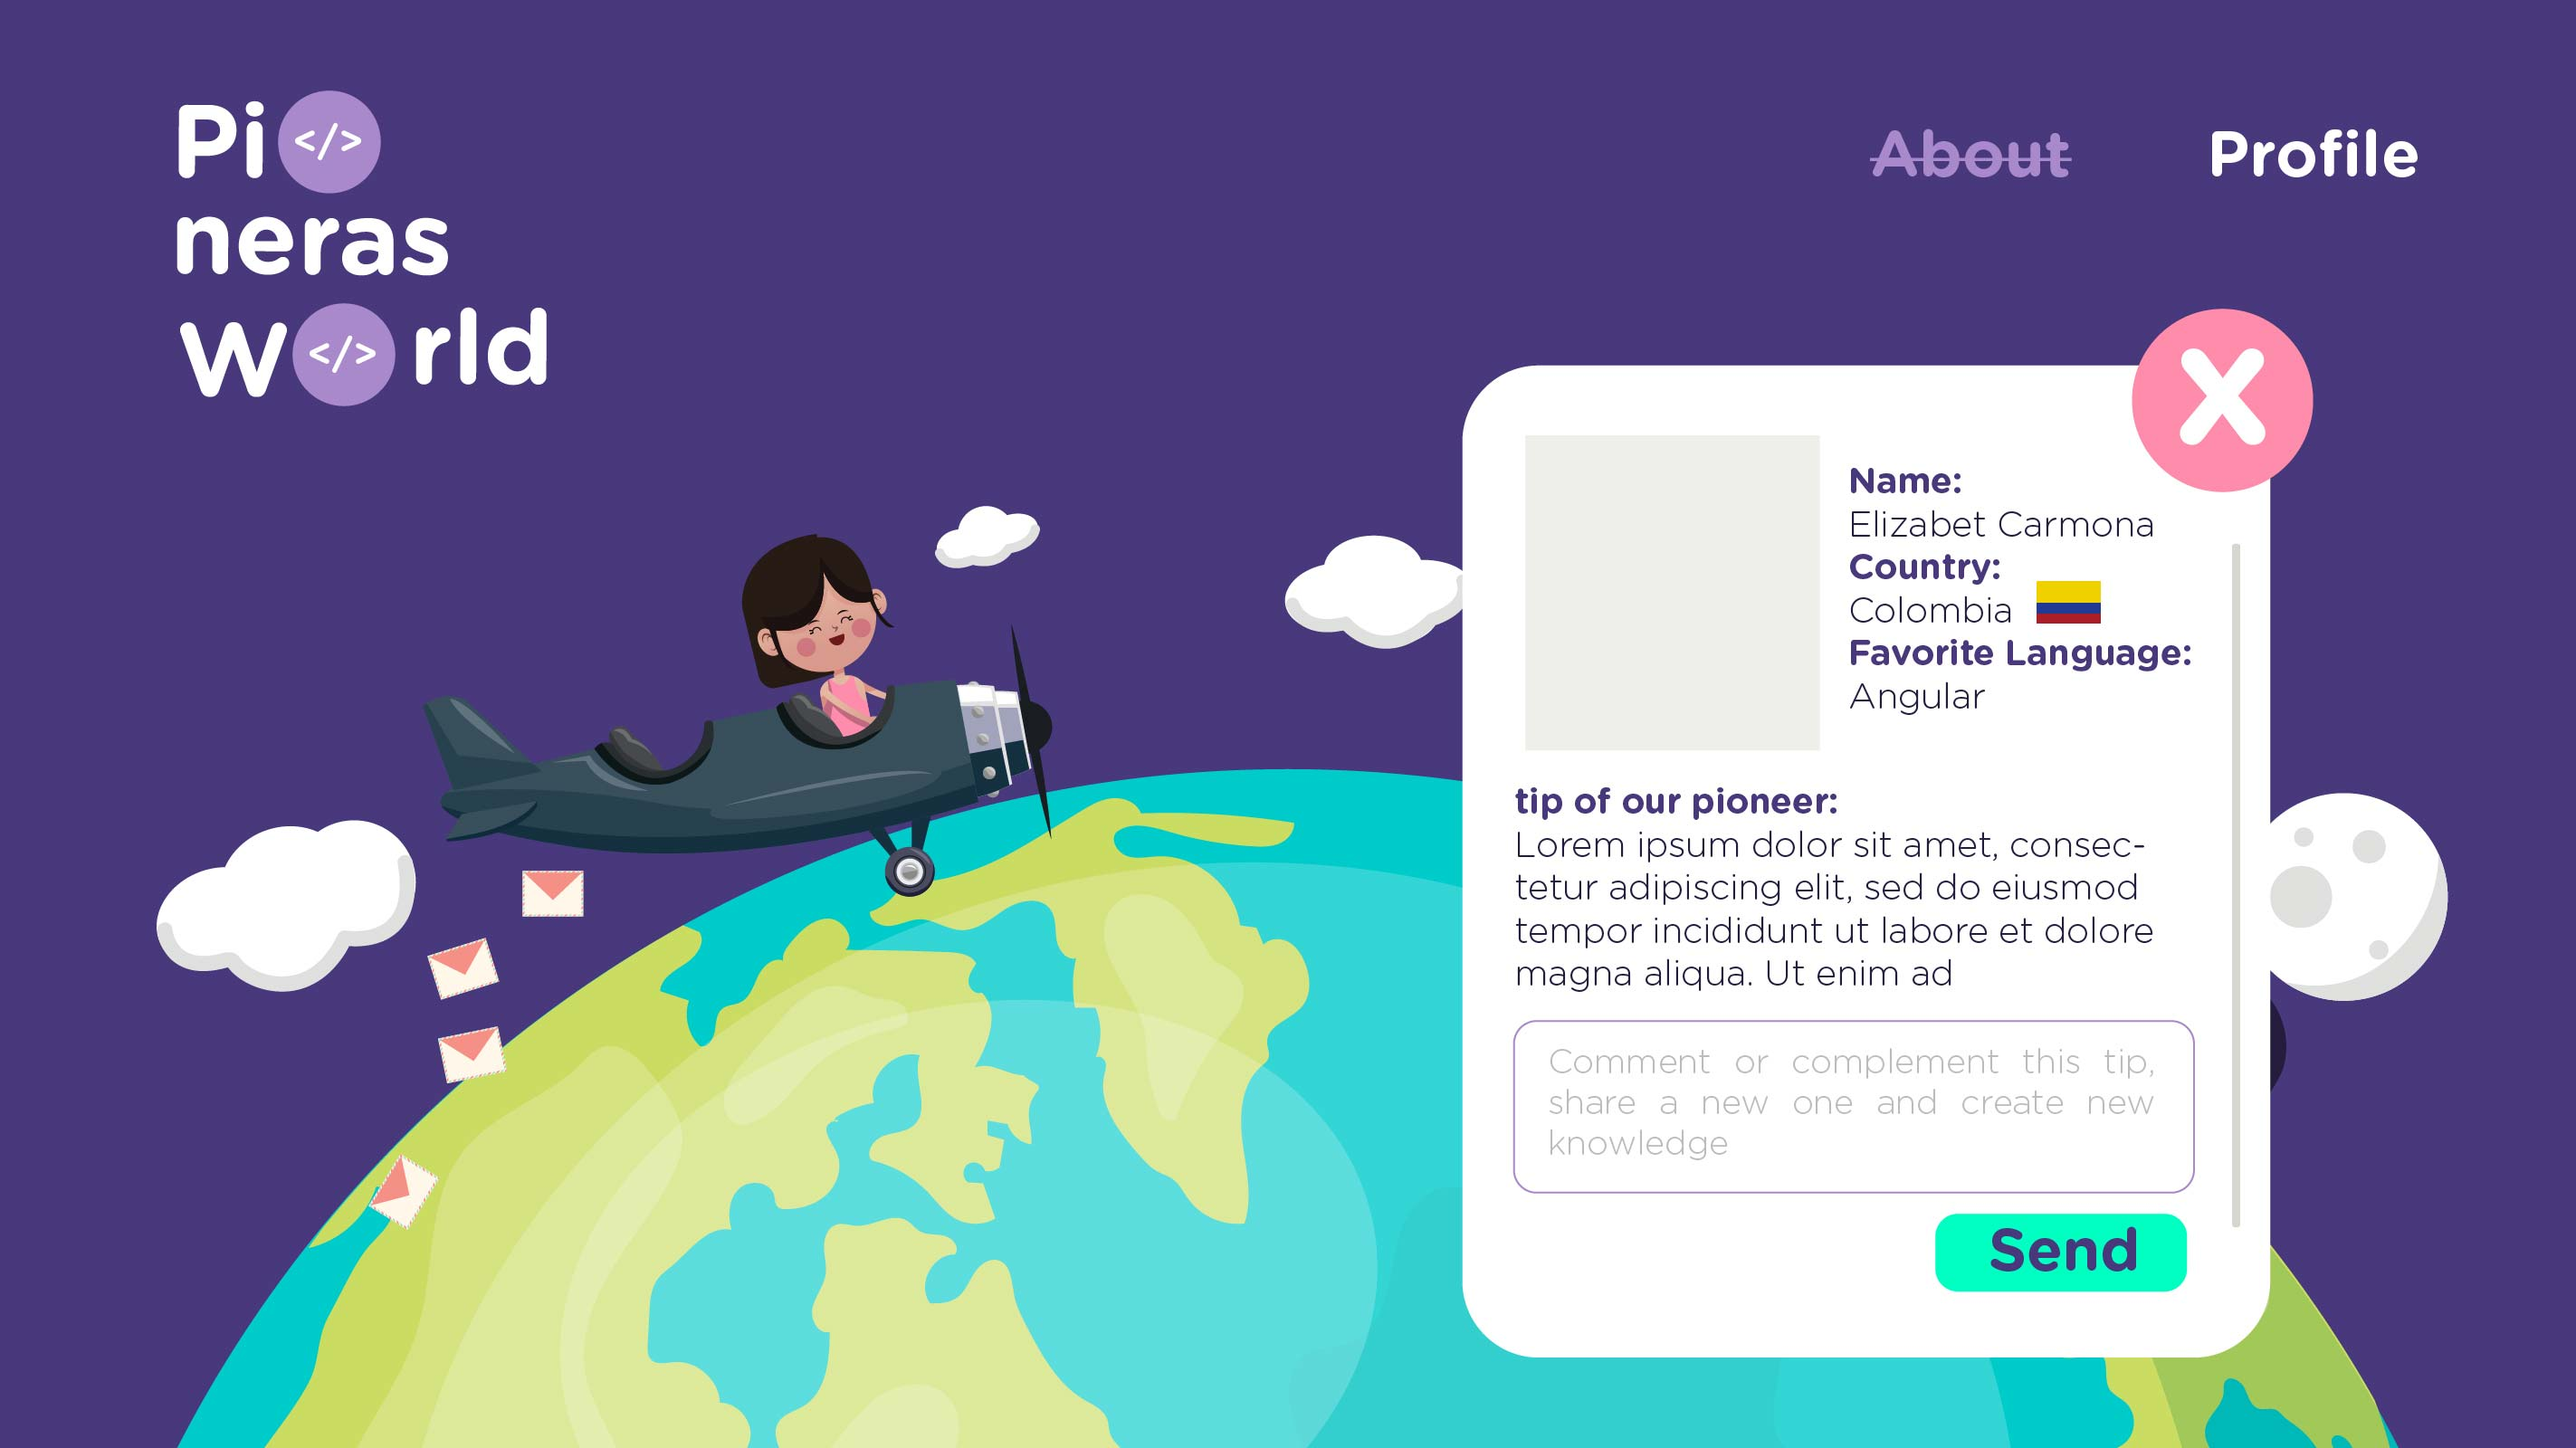
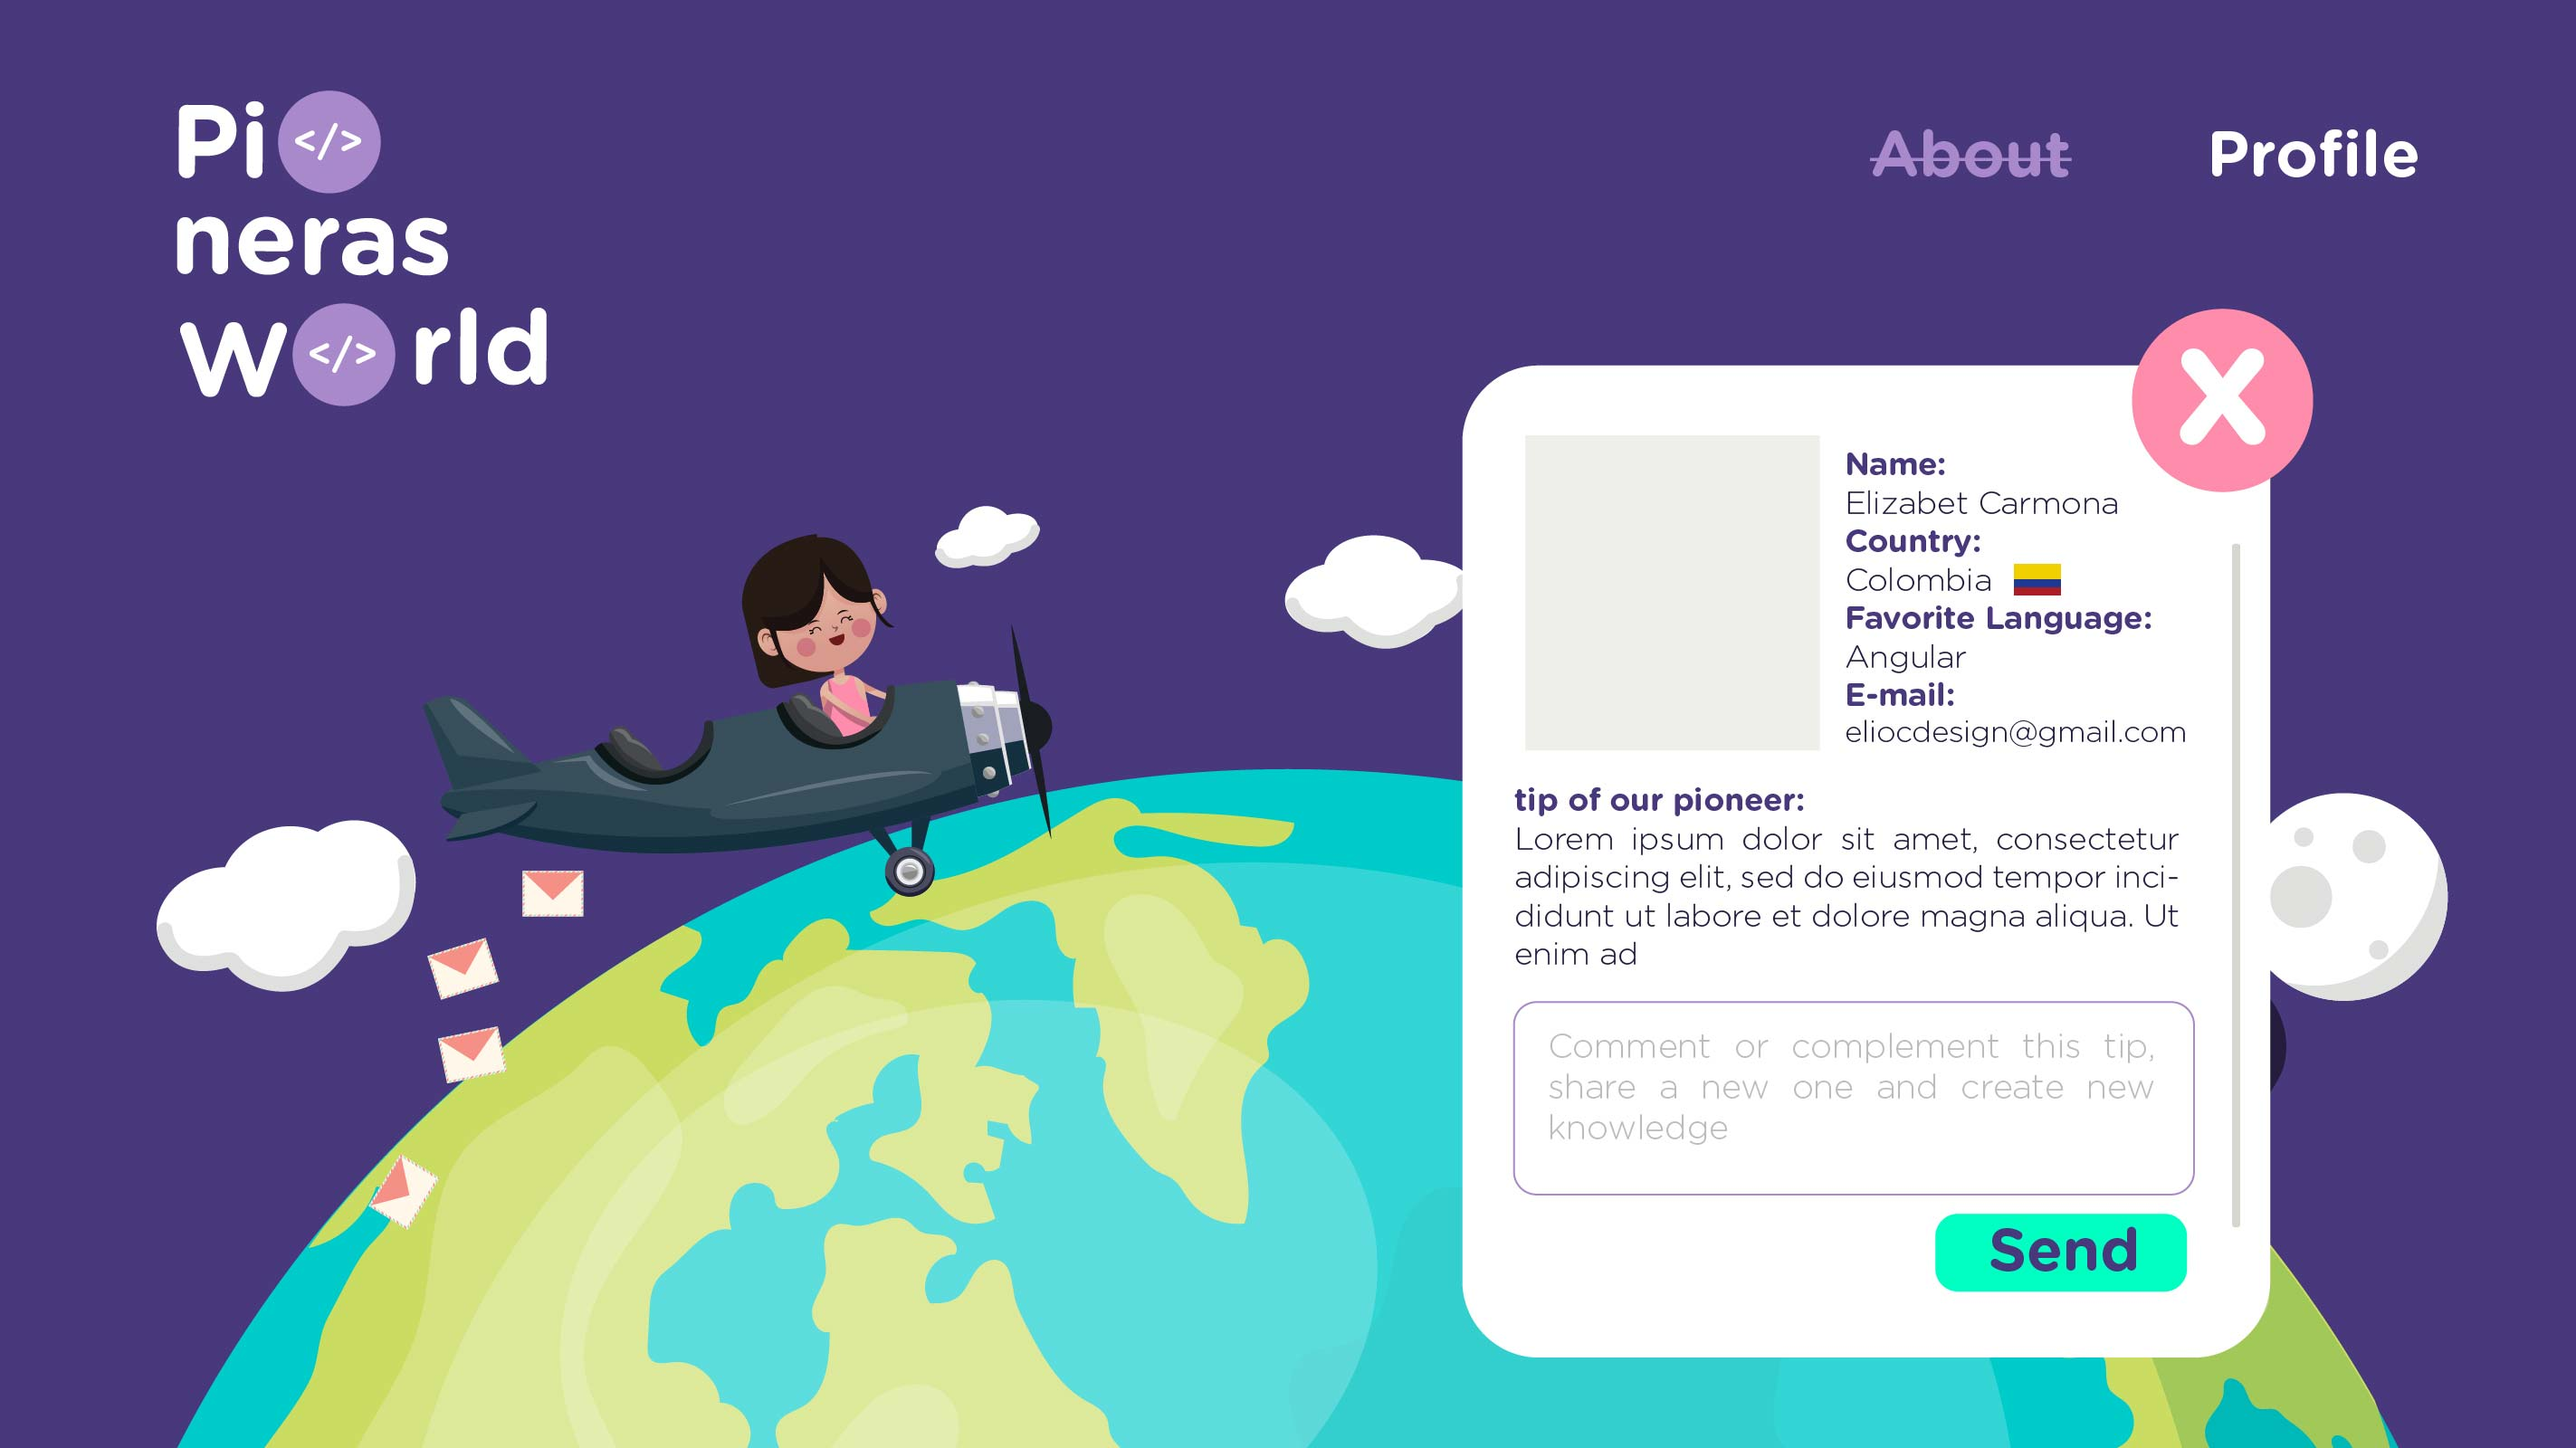
agregando mockups faltantes

Changed region(s): [[0.5875, 0.5312, 0.8349, 0.8125], [0.7112, 0.3125, 0.8658, 0.5312], [0.5875, 0.8125, 0.6184, 0.8438]]

diff --git a/README.md b/README.md
@@ -9,6 +9,9 @@ Project final Piocamp Mockups
 <img src="/img/4.jpg">
 <img src="/img/5.jpg">
 <img src="/img/6.jpg">
+<img src="/img/7.jpg">
+<img src="/img/8.jpg">
+
 
 
 
